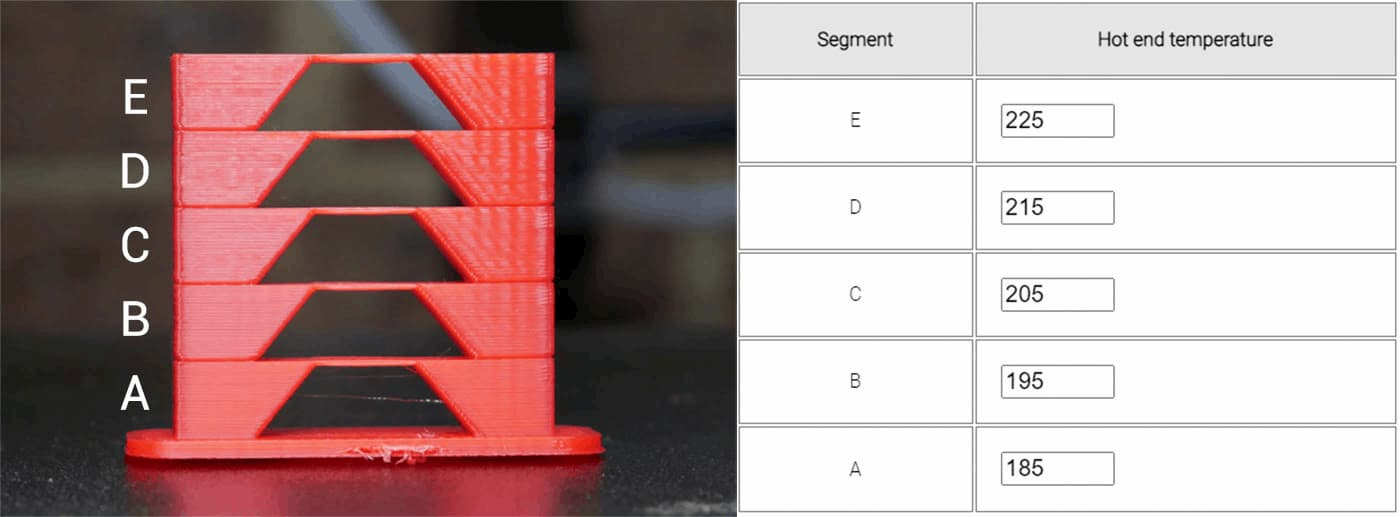
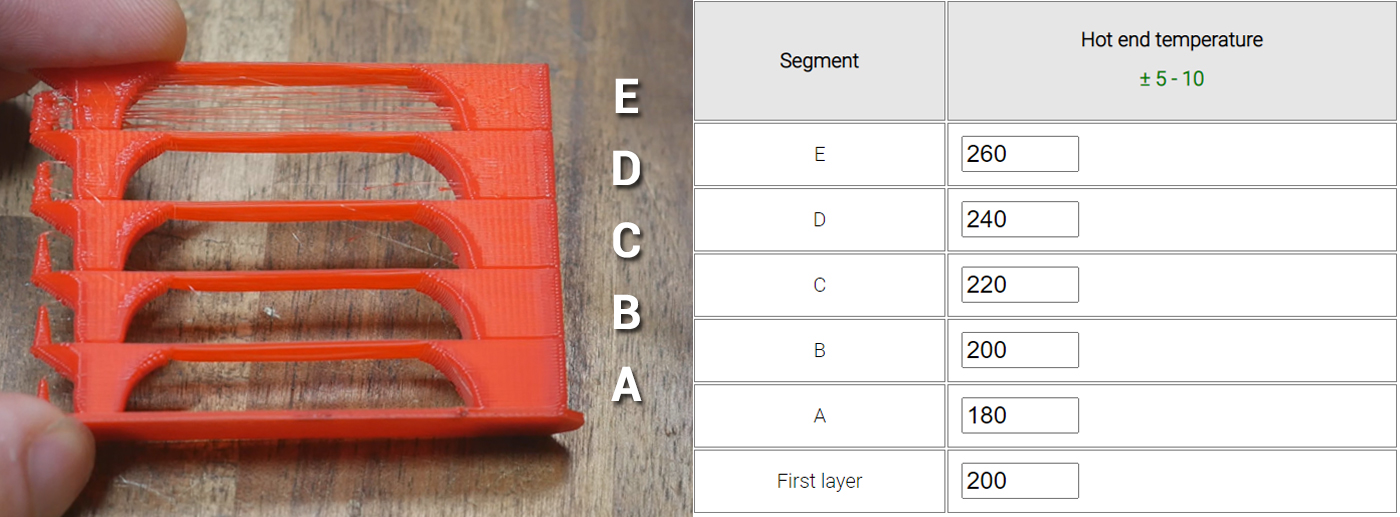
Add test interpretation videos to each test

diff --git a/calibration.html b/calibration.html
@@ -63,9 +63,9 @@
             </ul>
             <p>The information above is a summary, but if you wish to see the exact settings, the Simplify3D fff profile is available for download <a href="files/calibration.fff" target="_blank">here</a>.</p>
             <p>Please note that non Simplify users can simply open this file in a text editor and everything will be listed.</p>
-            <p>You will see that there are also values in place for retraction, temperatures, etc. These are modified by post processing scripts and this site to suit user inputs.</p>
+            <p>You may notice settings related to temperatures, retraction, Z hop, part cooling fan percentage, etc have set values, but these are altered by post processing scripts and this site to ultimately be determined by the user's inputs. Several parameters work like this, please don't be fooled by what is in the slicing profile. Opening the final gcode file in a text editor and searching for 'custom' will show if the user's inputs have been successfully adopted.</p>
             <h4>Post processing scripts in Simplify3D</h4>
-            <p>Unfortunately, there is no official reference for this provided by S3D. Instead, I have relied on <a href="" target="_blank">this forum post</a>.</p>
+            <p>Unfortunately, there is no official reference for this provided by S3D. Instead, I have relied on <a href="https://forum.simplify3d.com/viewtopic.php?f=8&t=1959" target="_blank">this forum post</a>.</p>
             <p>The scripts in my profile perform the following tasks:</p>
             <ul>
                 <li>Strip out all comments apart from new processes and layers.</li>
@@ -260,6 +260,8 @@
             <p><input type="button" onclick="resetFormToDefaults(form)" value="Reset parameters"> <input type="button" onclick="outputSettings(form)" value="Output Settings Summary"></p>
         </form>
         <h2>Interpreting Results:</h2>
+        <p>Please use the following video as a guide to this test:</p>
+        <iframe width="640" height="480" src="https://www.youtube.com/embed/seBOQpjLCQ4" frameborder="0" allow="accelerometer; autoplay; encrypted-media; gyroscope; picture-in-picture" allowfullscreen></iframe>
         <p>The following diagram and reference picture can be useful in determing if your first layer is too close or too far away from the nozzle. The reference image is quite large to aid clarity, you may wish to open it in a new tab to view it at maximum size.</p>
         <p>If one side looks too close, but the other too far, adjust the levellng knobs to correct this. It is worth printing this gcode more than once after making adjustments to make sure the result is accurate and repeatable.</p>
         <a href="#" data-featherlight="img/firstlayer.jpg"><img class="thumb" src="img/firstlayer.jpg" /></a> <a href="#" data-featherlight="img/firstlayer2.jpg"><img class="thumb" src="img/firstlayer2.jpg" /></a>
@@ -288,6 +290,8 @@
             <p><input type="button" onclick="resetFormToDefaults(form)" value="Reset parameters"> <input type="button" onclick="outputSettings(form)" value="Output Settings Summary"></p>
         </form>
         <h2>Interpreting Results:</h2>
+        <p>Please use the following video as a guide to this test:</p>
+        <iframe width="640" height="480" src="https://www.youtube.com/embed/Vf7nSuDGHI0" frameborder="0" allow="accelerometer; autoplay; encrypted-media; gyroscope; picture-in-picture" allowfullscreen></iframe>
         <p>The cube should look similar to those at the top of this page. If there are no major issues, please continue to the next step. If there is a significant defect, the culprit will likely be found by working through the frame page.</p>
     </div>
 
@@ -689,12 +693,14 @@
             <p><input type="button" onclick="resetFormToDefaults(form)" value="Reset parameters"> <input type="button" onclick="outputSettings(form)" value="Output Settings Summary"></p>
         </form>
         <h2>Interpreting Results:</h2>
+        <p>Please use the following video as a guide to this test:</p>
+        <iframe width="640" height="480" src="https://www.youtube.com/embed/JY6E9srwZm0" frameborder="0" allow="accelerometer; autoplay; encrypted-media; gyroscope; picture-in-picture" allowfullscreen></iframe>
         <p>Inspect your finished print. Hopefully, there will be a clear difference between the segments that reflect the settings you entered. In the example below (Ender 3 direct drive, PLA, linear advance enabled), the retraction distance varied from 0.4 up to 1.4mm in 0.2mm increments. Segments A and B have the least stringing. Based on this, I would assume that a retraction distance of 0.4 - 0.6 is best for this printer. this is consistent with linear advance being enabled.</p>
-        <p>I would then repeat the test, setting the same retraction distance for each segment and instead altering the retraction speed to dial that in. A third test could then take place to test extra restart distance.</p>
+        <p>I would then repeat the test, setting the same retraction distance for each segment and instead altering the retraction speed to dial that in. A third test could then take place to test extra restart distance, a fourth for Z hop, etc.</p>
         <a href="#" data-featherlight="img/retractionresults.jpg"><img class="thumb" src="img/retractionresults.jpg" /></a>
         <p>If you would like to be able to customise additional parameters for a retraction test, Prahjister has made a great tool: <a href="http://retractioncalibration.com/" target="_blank">Retraction Calibration Tool</a>. It has a higher degree of difficulty due to needing more parameters but is ultimately more powerful. Warning! This is an external website and beyond my control. Some users have reported success and others have had  issues with the gcode generated. As with the gcode made by this website, monitor your printer during printing with a view to cutting the power if needed.</p>
         <div class="exp">
-            <h5>I can't translate my test results to my own slicer! Other factors beyond the scope of this test - Important!</h5>
+            <h5>I can't translate my test results to my own slicer! Other factors beyond the scope of this test - <span style="color:red;">Important!</span></h5>
             <p>After you have found a combination of parameters which works well on your machine, the idea is to then translate them  to your own slicing profile. If you can't replicate the results, please work through the following:</p>
             <ul>
                 <li>Auto cooling (PrusaSlicer) / Speed Overrides (Simplify3D) / Minimum layer time (Cura): Most slicers have a setting to detect if a layer will complete in less than a certain time threshold. In this case, all movement for that layer is slowed, including those related to retraction, to increase the layer time to meet the target. The gcode generated by the this page has this setting OFF. If your results vary, trying turning this setting off in your own slicer too.</li>
@@ -745,11 +751,12 @@
             <p><input type="button" onclick="resetFormToDefaults(form)" value="Reset parameters"> <input type="button" onclick="outputSettings(form)" value="Output Settings Summary"></p>
         </form>
         <h2>Interpreting Results:</h2>
-        <p>Inspect your finished print. Hopefully, there will be a clear difference between the segments that reflect the temperatures you entered. In the example below (Ender 3 direct drive, PLA, linear advance enabled), the hot end temperature varied from 185 to 225 in 10 degree increments"</p>
+        <p>Please use the following video as a guide to this test:</p>
+        <iframe width="640" height="480" src="https://www.youtube.com/embed/D6m_kYhOth0" frameborder="0" allow="accelerometer; autoplay; encrypted-media; gyroscope; picture-in-picture" allowfullscreen></iframe>
+        <p>Inspect your finished print. Hopefully, there will be a clear difference between the segments that reflect the temperatures you entered. In the example below (Ender 3 direct drive, PLA, linear advance enabled), the hot end temperature varied from 180 to 260 in 20 degree increments</p>
         <a href="#" data-featherlight="img/temperatureresults.jpg"><img class="thumb" src="img/temperatureresults.jpg" /></a>
-        <p>For the first layer, there was some extruder clicking as the extruder struggled to push the filament through the cooler nozzle. As expected, surface becomes more glossy as the temperature increases. What was unexpected, was surface rippling either being more prominent or at least more obvious as the temperature went up. Underhangs and bridges all look good on this test.</p> 
-        <p>My previous hot end temperature was 200 degrees for this printer, but I will consider lowering it to 190 degrees after this test.</p>
-        <p>You may also wish to conduct some destructive testing to evaluate part strength. In many cases this is more important than the appearance of the part.</p>
+        <p>As expected, surfaces becomes more glossy as the temperature increases. What was unexpected, was surface rippling being more obvious as the temperatures went up. Underhangs and bridges all look good on this test, however the little spikes could not be printed accurately at the higher temps due to the part cooling system not keeping up. The coolest spike in segment A was very brittle, the spike on segment C the strongest, and the upper spikes too malformed to test accurately.</p> 
+        <p>My previous hot end temperature was 200 degrees for this printer, but I will consider raising it to 210 degrees after this test to gain some interlayer strength without any trouble with part cooling.</p>
     </div>
 
     <div id="accel">
@@ -851,7 +858,13 @@
             <p><input type="button" onclick="resetFormToDefaults(form)" value="Reset parameters"> <input type="button" onclick="outputSettings(form)" value="Output Settings Summary"></p>
         </form>
         <h2>Interpreting Results:</h2>
-        <p>Inspect your finished print. Hopefully, there will be a clear difference between the segments that reflect the acceleration values you entered. In the example below (Ender 3 direct drive, PLA, linear advance enabled), acceleration varied from 300 to 800 in 100 mm/sec/sec increments. Junction deviation was left at the default 0.08. The difference between each segment is subtle, but there is increased ghosting around the letter Y on the higher segments. The previous value was 500, but a small increase in quality may be achieved from lowering the value to 400.</p>
+        <p>Please use the following video as a guide to this test:</p>
+        <iframe width="640" height="480" src="https://www.youtube.com/embed/SIsKQIyuzYs" frameborder="0" allow="accelerometer; autoplay; encrypted-media; gyroscope; picture-in-picture" allowfullscreen></iframe>
+        <p>You may initially think the X and Y labels are facing the wrong way, but they do not. This is explains and demonstrated in the video above.</p>
+        <p>You may also notice a few bits of stringing. These are a quirk of how the test was originally sliced and can be ignored.</p>
+        <p>Inspect your finished print. Hopefully, there will be a clear difference between the segments that reflect the acceleration values you entered. In the example below (Ender 3 direct drive, PLA, linear advance enabled), acceleration varied from 300 to 800 in 100 mm/sec/sec increments. Junction deviation was left at the default 0.08. The difference between each segment is subtle, but there is increased ghosting around the letter Y on the higher segments. In the lowest segment,  the gentle acceleration means the nozzle spends more time in the corners and they tend to bulge. This would be more evident if linear advance was disabled.</p>
+        <p>The ideal segment will have the best compromise between low acceleration corner bulging and high acceleration ringing.</p>
+        <p>My previous value was 500, but a small increase in quality may be achieved from lowering the value to 400.</p>
         <a href="#" data-featherlight="img/accelerationresults.jpg"><img class="thumb" src="img/accelerationresults.jpg" /></a>
         <p></p>
         <p>Once you have a value you are happy with, you can update with:</p>
@@ -871,6 +884,9 @@
             <p>Cura and PrusaSlicer both have the capability to control these parameters from the slicer by inserting appropriate gcode. If you are finding that your new acceleration values are not taking effect, you may need to also set them in the slicer. This is actually a desirable feature, as it allows more aggressive settings for infill and features that can't be seen in the final print, yet be more conservative for outer walls where aesthetics are paramount.</p>
             <a href="#" data-featherlight="img/acceloverride.jpg"><img class="thumb" src="img/acceloverride.jpg" /></a>
         </div>
+        <h2>Higher acceleration without ringing: Input Shaping</h2>
+        <p>An amzing development in 3D printing is input shaping, which compensates for the machine's resonant frequency by altering stepper motor inputs to drastically reduce ringing. Available in Klipper and soon to be introduced to RepRapFirmware, input shaping allows much higher feedrates without a loss in print quality. To see it in action, see the video below:</p>
+        <iframe width="480" height="360" src="https://www.youtube.com/embed/er7q-CJL1lc" frameborder="0" allow="accelerometer; autoplay; encrypted-media; gyroscope; picture-in-picture" allowfullscreen></iframe>
     </div>
 
     <div id="linadv">

diff --git a/js/createform.js b/js/createform.js
@@ -171,7 +171,7 @@ var retractionTower = `<h4>Retraction</h4>
         <tr>
             <th>Reference Diagram</th>
             <th>Segment</th>
-            <th>Retraction distance (mm)<p class="sug">&#177; 0.5 - 1</p></th>
+            <th>Retraction distance (mm)<p class="sug">&#177; 0.5 - 1 (bowden tube)</p><p class="sug">&#177; 0.1 - 0.2 (direct drive)</p></th>
             <th>Retraction speed (mm/sec)<p class="sug">&#177; 5</p></th>
             <th>Extra restart distance (mm)<p class="sug">&#177; 0.2</p></th>
             <th>Prime (unretract) speed (mm/sec)<p class="sug">&#177; 5</p></th>
@@ -234,7 +234,7 @@ var retractionTower = `<h4>Retraction</h4>
 </table>`;
 
 var accel = `<h4>Base feedrate/speed</h4>
-<p>You can specify the feedrate for X and Y movements. The inner perimeter will be set to this speed and the outer perimeter 50% of this speed.</p>
+<p>You can specify the feedrate for X and Y movements. The inner perimeter will be set to this speed and the outer perimeter 50% of this speed. It is recommend to follow the process above to calculate safe limits for feedrate.</p>
 <label>Base feedrate (mm/sec): <input type="number" name="feedrate" value="60" min="20" max="500"></label>
 <h4>Acceleration and jerk/junction deviation</h4>
 <p>After entering <b>M503</b>, I have determined my 3D printer firmware uses:</p>
@@ -249,7 +249,7 @@ var accel = `<h4>Base feedrate/speed</h4>
         <tr>
             <th>Reference diagram</th>
             <th>Segment</th>
-            <th>Acceleration<p class="sug">&#177; 100 (moving bed i3)</p><p class="sug">&#177; 500 (coreXY / delta)</p></th>
+            <th>Acceleration (mm/sec/sec)<p class="sug">&#177; 100 (moving bed i3)</p><p class="sug">&#177; 500 (coreXY / delta)</p></th>
             <th class="jerktd">Jerk X<p class="sug">&#177; 1</p></th>
             <th class="jerktd">Jerk Y<p class="sug">&#177; 1</p></th>
             <th class="jerktd">Jerk Z (delta only)<p class="sug">&#177; 1</p></th>
